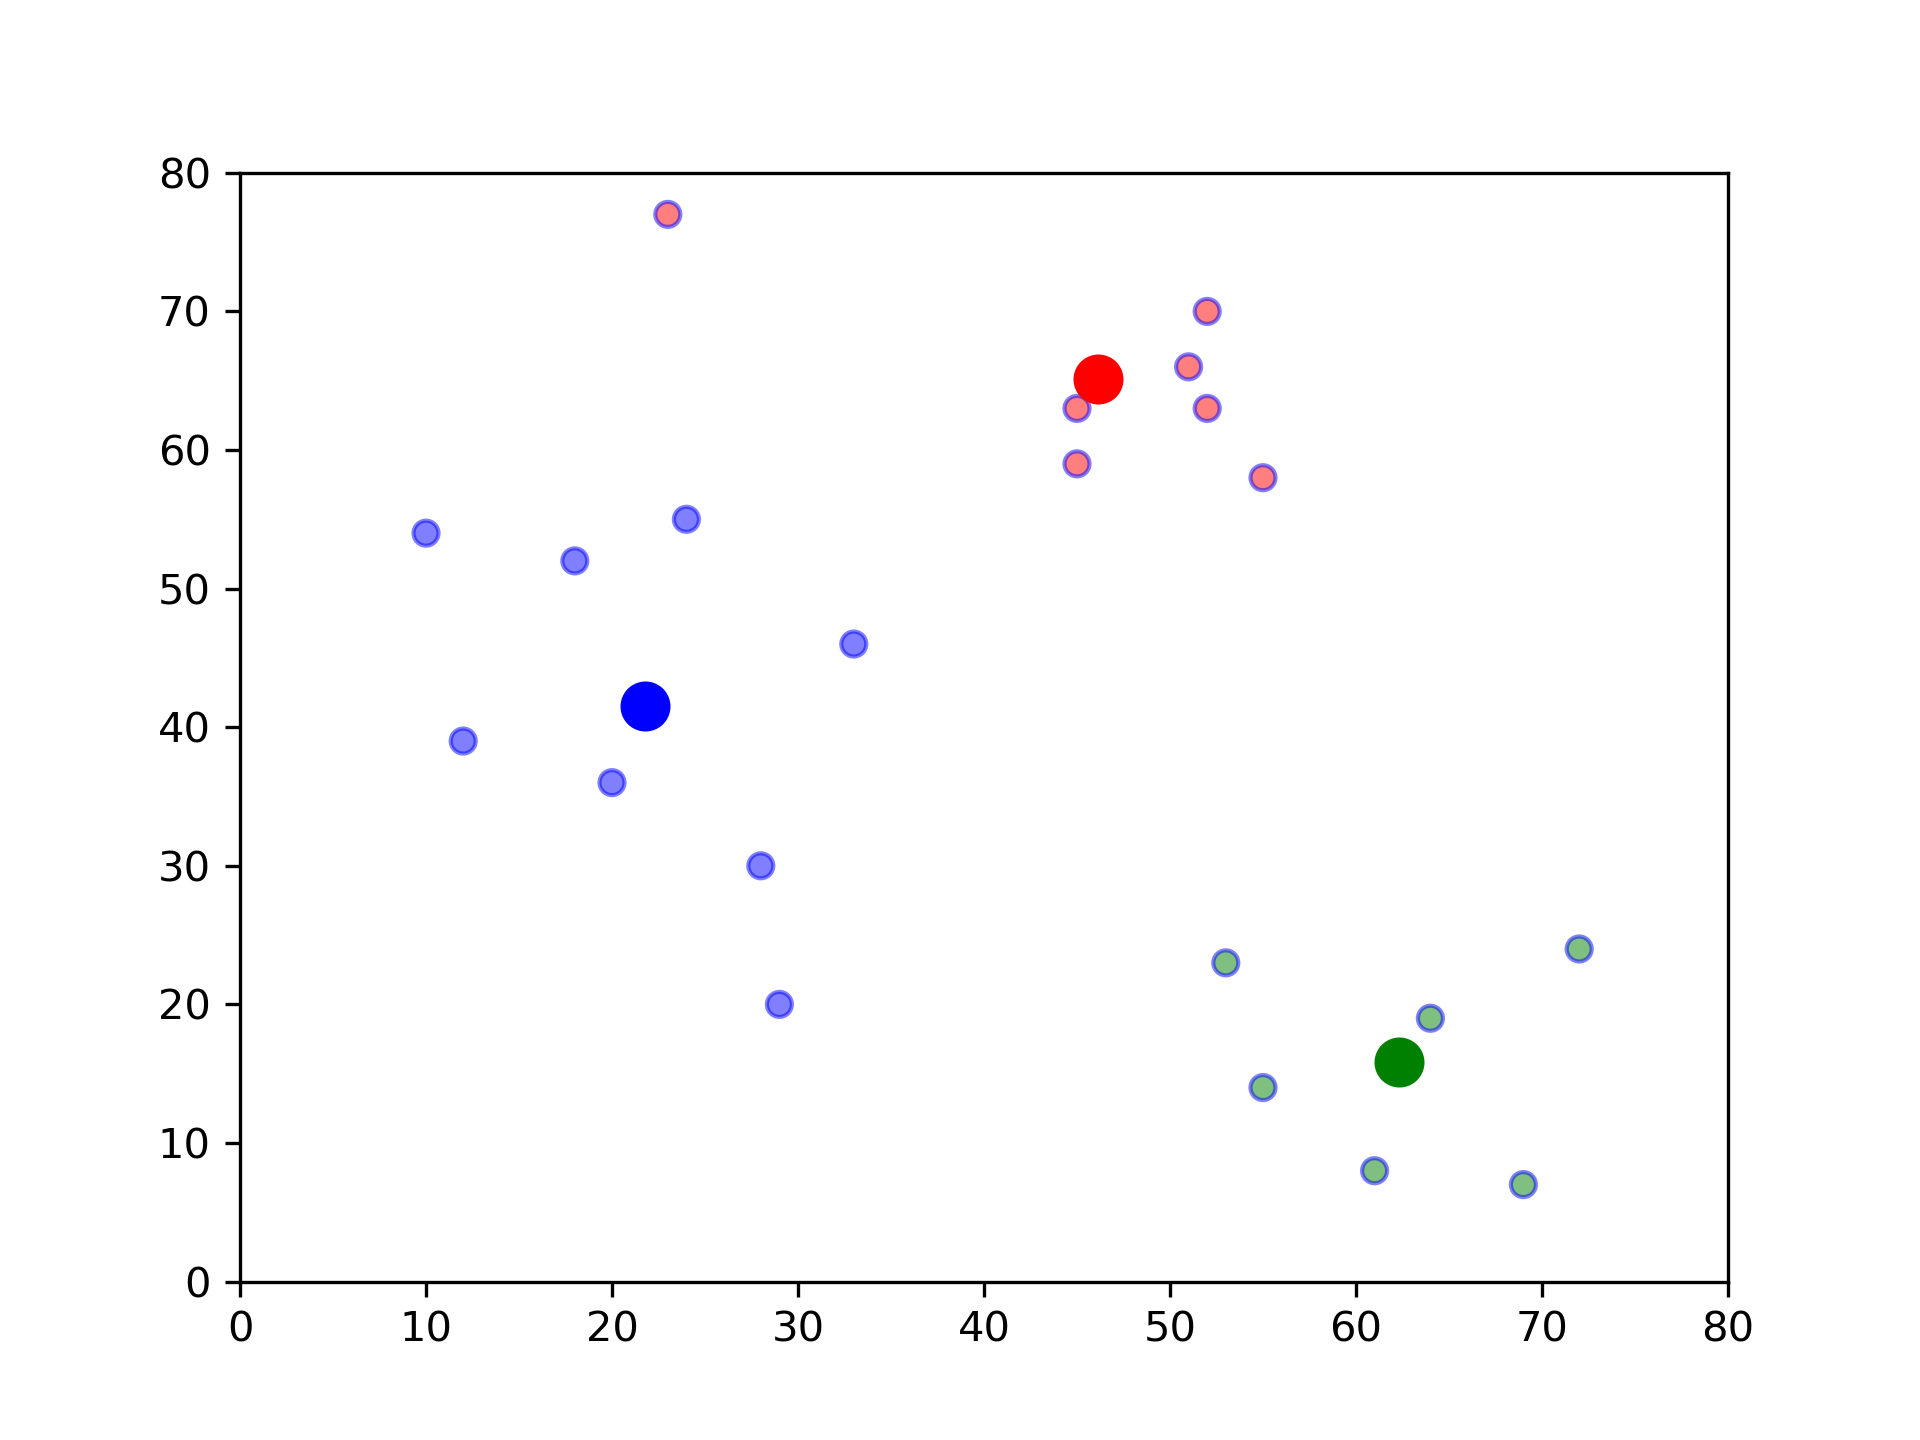
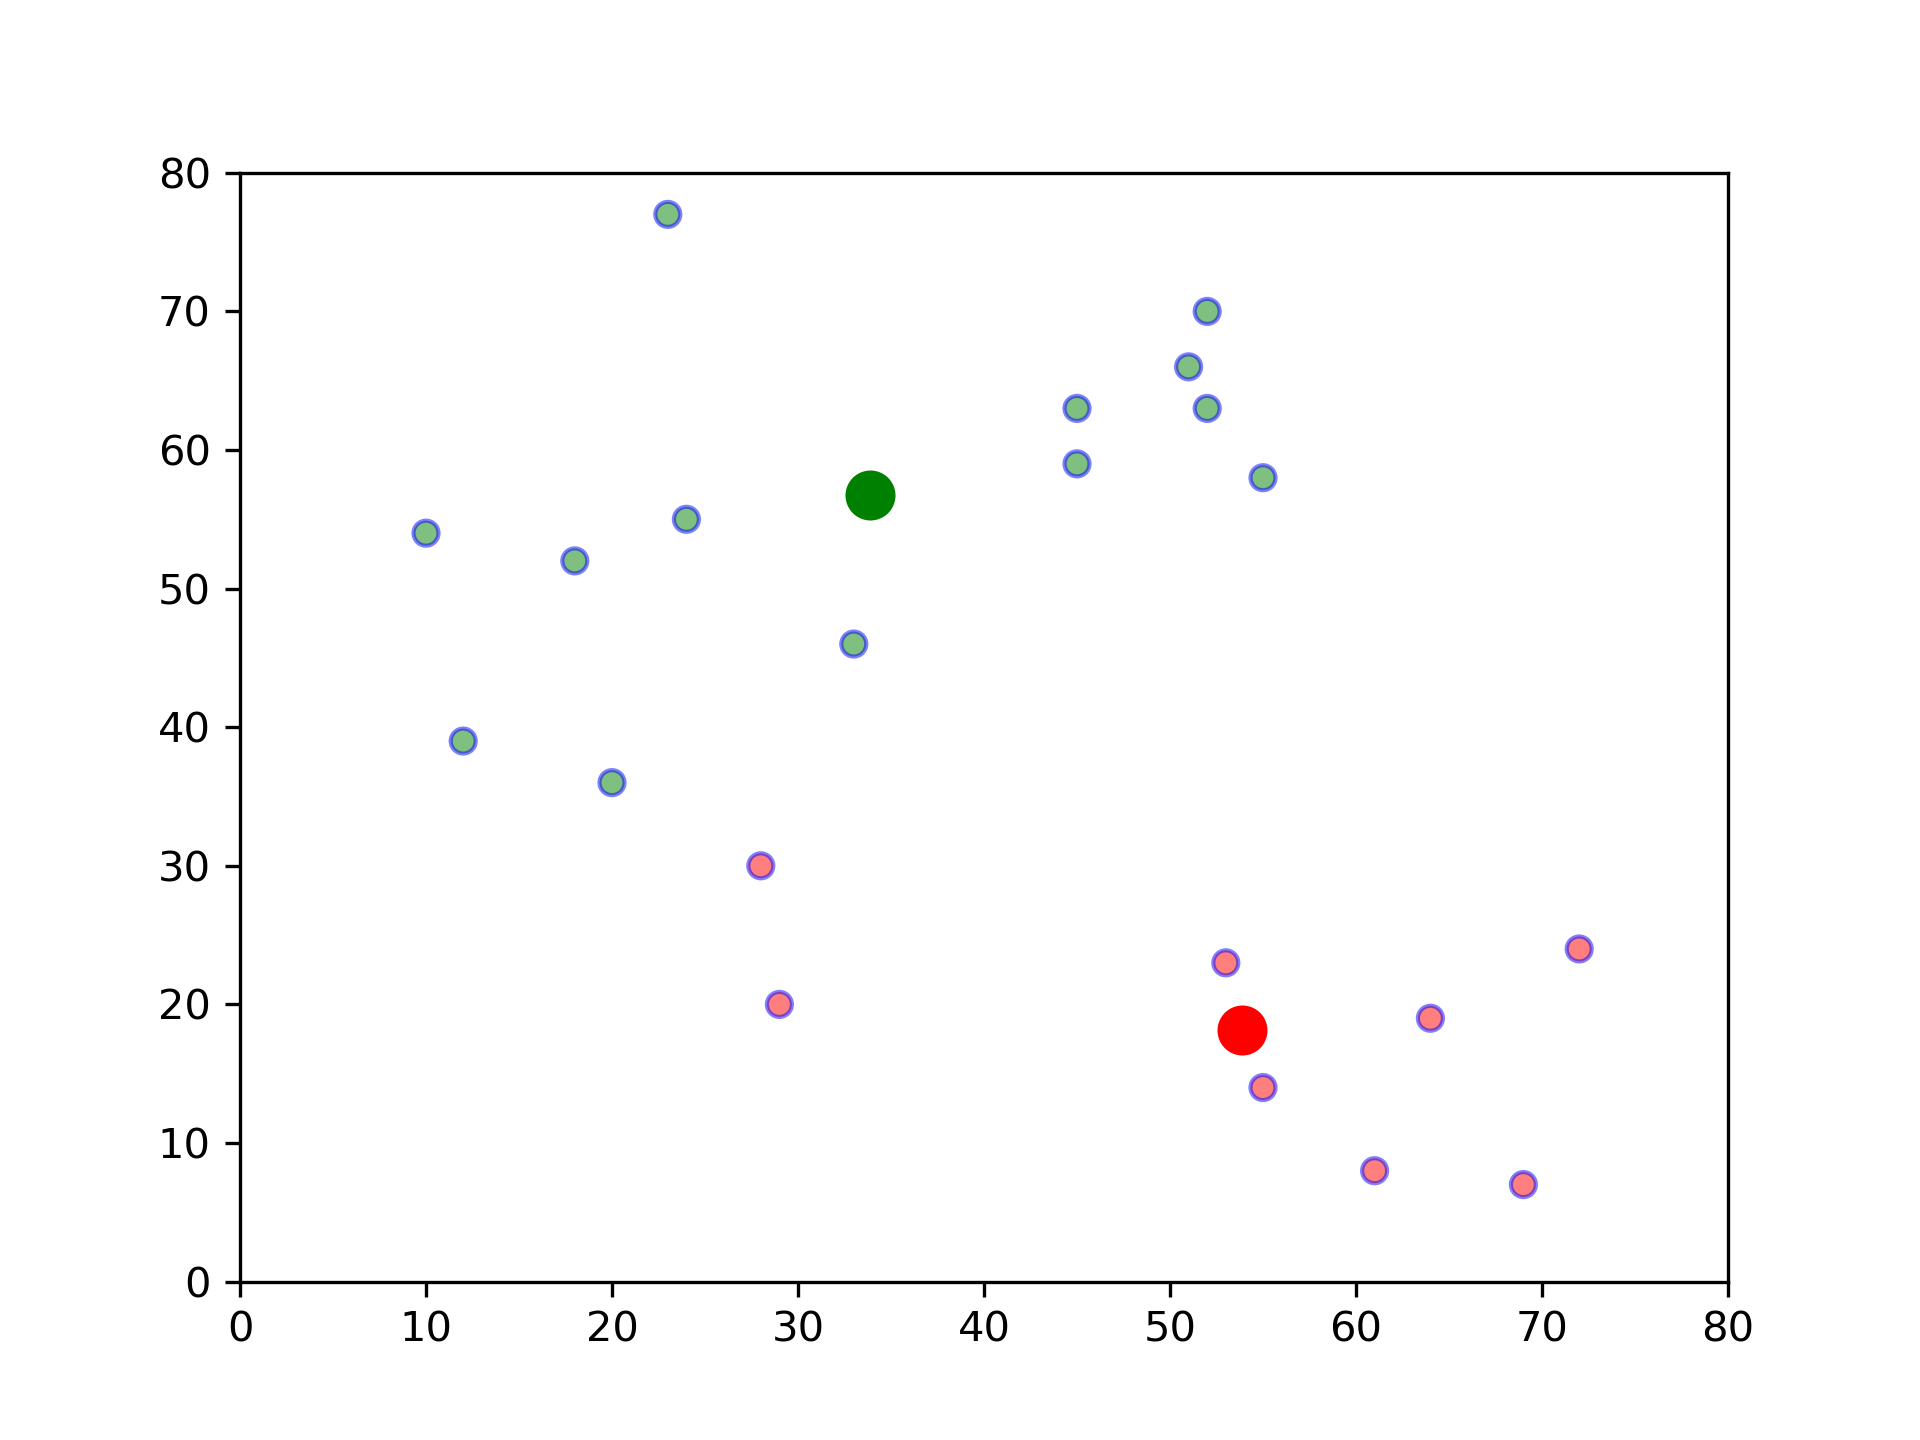
update new content

diff --git a/Lesson-05/kmeans.py b/Lesson-05/kmeans.py
@@ -3,7 +3,7 @@ import numpy as np
 import pandas as pd
 import cv2
 
-#np.random.seed(42)
+np.random.seed(42)
 
 
 def assignment(df, center, colmap):
@@ -72,6 +72,7 @@ def main():
 
         if closest_center.equals(df['closest']):
             break
+
 
 
 if __name__=='__main__':

diff --git a/Lesson-05/kmeansPP.py b/Lesson-05/kmeansPP.py
@@ -46,7 +46,7 @@ def main():
         'y': [39, 36, 30, 52, 54, 20, 46, 55, 59, 63, 70, 66, 63, 58, 23, 14, 8, 19, 7, 24, 77]
     })
 
-    k = 3
+    k = 2
 
     first_center = [np.random.randint(0,80), np.random.randint(0,80)]
     center = select_center(first_center, df, k)
